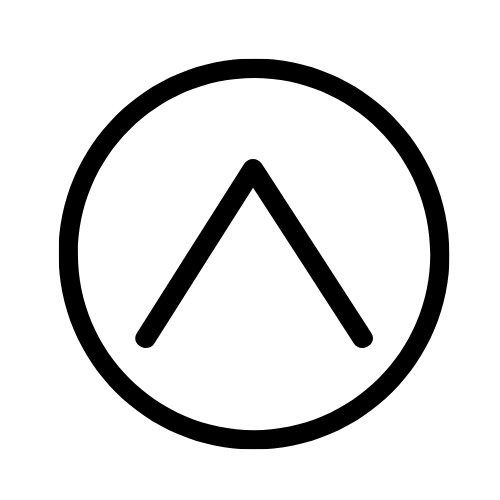
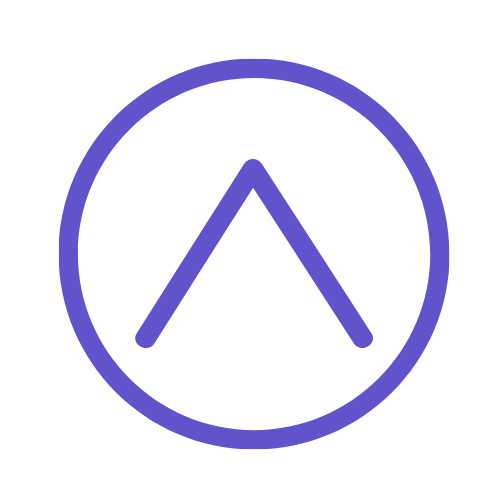
additional styling to the page

Changed region(s): [[0.12, 0.12, 0.9, 0.9], [0.27, 0.3, 0.75, 0.72]]

diff --git a/src/components/Banner/Banner.css b/src/components/Banner/Banner.css
@@ -19,10 +19,12 @@
   text-align: center;
   font-family: 'Audiowide', cursive;
   font-size: 70px;
+  color: rgba(97, 83, 204);
 }
 
 .content {
   font-size: large;
+  color: rgba(97,83,204);
 }
 
 .get-started-btn {
